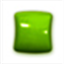
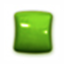
Dimensionnement de la fenêtre, images, dragNdrop ok

Changed region(s): [[0.2188, 0.1875, 0.8125, 0.6562]]

diff --git a/2018-2019/L2 INFO/BPOO/ProjetBPOO2018-2019/src/ui/CandyCrush.java b/2018-2019/L2 INFO/BPOO/ProjetBPOO2018-2019/src/ui/CandyCrush.java
@@ -15,12 +15,71 @@ import javafx.scene.input.TransferMode;
 import javafx.scene.layout.BorderPane;
 import javafx.scene.layout.GridPane;
 import javafx.scene.layout.Pane;
+import javafx.scene.layout.Priority;
 import javafx.stage.Stage;
+import javafx.stage.WindowEvent;
 
 public class CandyCrush extends Application {
 
 	private Button[][] grille;
 	private GridPane grillePane;
+
+	@Override
+	public void start(Stage primaryStage) {
+		try {
+			primaryStage.setTitle("Candy Crush");
+	
+			initGrille(); // construction de grillePane
+			BorderPane root = new BorderPane();
+			
+			root.getChildren().add(grillePane);
+			
+			Scene scene = new Scene(root);
+			primaryStage.setScene(scene);
+			primaryStage.show();
+			
+			
+		} catch (Exception e) {
+			e.printStackTrace();
+		}
+	}
+
+	private void initGrille() {
+		
+		Image[] Candy = new Image[4];
+		try {
+			Candy[0] = new Image(getClass().getResourceAsStream("/Candy_1.png"));
+			Candy[1] = new Image(getClass().getResourceAsStream("/Candy_2.png"));
+			Candy[2] = new Image(getClass().getResourceAsStream("/Candy_3.png"));
+			Candy[3] = new Image(getClass().getResourceAsStream("/Candy_4.png"));
+		} catch (Exception e) {
+			// TODO Auto-generated catch block
+			e.printStackTrace();
+		}
+		
+		
+		grillePane = new GridPane();
+
+		grille = new Button[10][10];
+	
+		for (int l = 0; l < 10; l++) {
+			for (int c = 0; c < 10; c++) {
+				int indiceImage = (int)(Math.random()*4);
+				Button bouton = new Button("",new ImageView(Candy[indiceImage]));
+				
+				bouton.setStyle("-fx-background-color: #FFFFFF");
+				grille[l][c] = bouton;
+	
+				GridPane.setConstraints(bouton, c, l);
+				grillePane.getChildren().add(bouton);
+	
+				bouton.setOnDragDetected(new DragDetectedEvent(bouton));
+				bouton.setOnDragOver(new DragOverEvent(bouton));
+				bouton.setOnDragDropped(new DragDroppedEvent(bouton));
+	
+			}
+		}
+	}
 
 	private final class DragDetectedEvent implements EventHandler<MouseEvent> {
 		private final Button bouton;
@@ -92,67 +151,6 @@ public class CandyCrush extends Application {
 			
 			recreerGridPane();
 		}
-	}
-
-	@Override
-	public void start(Stage primaryStage) {
-		try {
-			primaryStage.setTitle("Candy Crush");
-
-			BorderPane root = new BorderPane();
-
-			initGrille(root);
-
-			Scene scene = new Scene(root, 280, 280);
-			
-
-			primaryStage.setScene(scene);
-	
-			primaryStage.show();
-		} catch (Exception e) {
-			e.printStackTrace();
-		}
-	}
-
-	private void initGrille(Pane panneau) {
-		
-		Image imageOk = null;
-		try {
-			imageOk = new Image(getClass().getResourceAsStream("Candy_4.png"));
-		} catch (Exception e) {
-			// TODO Auto-generated catch block
-			e.printStackTrace();
-		}
-		
-		
-		grillePane = new GridPane();
-		
-		grille = new Button[10][10];
-
-		for (int l = 0; l < 10; l++) {
-			for (int c = 0; c < 10; c++) {
-				Button bouton = new Button("B",new ImageView(imageOk));
-				
-				
-				
-				
-				if ((l + c) % 2 == 0)
-					bouton.setStyle("-fx-background-color: #D2691E");
-				else
-					bouton.setStyle("-fx-background-color: #FFD700");
-				grille[l][c] = bouton;
-
-				GridPane.setConstraints(bouton, c, l);
-				grillePane.getChildren().add(bouton);
-
-				bouton.setOnDragDetected(new DragDetectedEvent(bouton));
-				bouton.setOnDragOver(new DragOverEvent(bouton));
-				bouton.setOnDragDropped(new DragDroppedEvent(bouton));
-
-			}
-		}
-
-		panneau.getChildren().add(grillePane);
 	}
 
 	private void recreerGridPane() {
